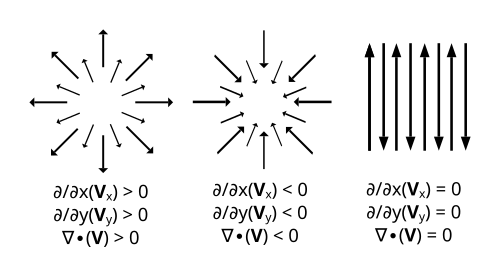
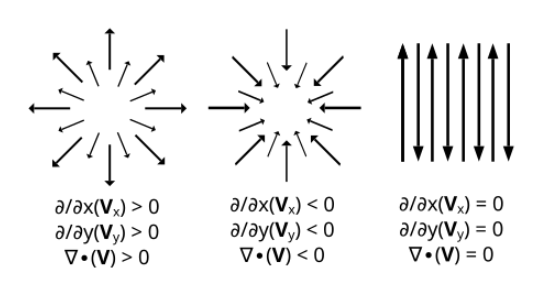
new cards with source & date

diff --git a/projects/projects.html b/projects/projects.html
@@ -27,119 +27,59 @@
 		</div>
 	</header>
 
-	<div class="cardgrid">
-		<a class="card" href="tracking/index.html">
-			<img src="thumbnails/tracking.png" />
-			<h3>&hearts;tracking</h3>
-			<p>3d virtual position-triangulation thru multiple camera's frame-wise differences</p>
-		</a>
-
-		<a class="card" href="particles/index.html">
-			<img src="thumbnails/particles.png" />
-			<h3>particles</h3>
-			<p>particle system with collisions using an optimized spatial hash grid</p>
-		</a>
-
-		<a class="card" href="geometrize/index.html">
-			<img src="thumbnails/geometrize.png" />
-			<h3>&hearts;geometrize</h3>
-			<p>image abstracted with shapes using a hill-climbing algorithm</p>
-		</a>
-
-		<a class="card" href="fracture/index.html">
-			<img src="thumbnails/fracture.png" />
-			<h3>fracture</h3>
-			<p>3d model mesh split by plane and retriangulated</p>
-		</a>
-
-		<a class="card" href="minesweeper/index.html">
-			<img src="thumbnails/minesweeper.png" />
-			<h3>&hearts;minesweeper</h3>
-			<p>the classic minesweeper game in 3d with intuitive orbit controls & cosmentic particle systems</p>
-		</a>
-
-		<a class="card" href="cloth/index.html">
-			<img src="thumbnails/cloth.png" />
-			<h3>&hearts;cloth</h3>
-			<p>3d flag-like mass-spring cloth simulation</p>
-		</a>
-
-		<a class="card" href="eulerian_fluid/index.html">
-			<img src="thumbnails/eulerian_fluid.png" />
-			<h3>eulerian fluid</h3>
-			<p>implementation of jos stam's <i>real-time fluid dynamics for games</i></p>
-		</a>
-
-		<a class="card" href="slicer/index.html">
-			<img src="thumbnails/slicer.png" />
-			<h3>&hearts;slicer</h3>
-			<p>voxelized mesh sliced into greedymeshed prisms</p>
-		</a>
-
-		<a class="card" href="targetting/index.html">
-			<img src="thumbnails/targetting.png" />
-			<h3>targetting</h3>
-			<p>3d interactive scene with quaternion rotation, plane translation, and relative scaling</p>
-		</a>
-
-		<a class="card" href="a_star_nav/index.html">
-			<img src="thumbnails/a_star_nav.png" />
-			<h3>&hearts;a star nav</h3>
-			<p>3d open world with a* navigation system</p>
-		</a>
-
-		<a class="card" href="asteroids/index.html">
-			<img src="thumbnails/asteroids.png" />
-			<h3>asteroids</h3>
-			<p>the classic asteroids game with a pseudo-shader to imitate text-based console graphics</p>
-		</a>
-
-		<a class="card" href="pixels/index.html">
-			<img src="thumbnails/pixels.png" />
-			<h3>&hearts;pixels</h3>
-			<p>orientable bitmaps with physics and collision detection</p>
-		</a>
-
-		<a class="card" href="raycasting/index.html">
-			<img src="thumbnails/raycasting.png" />
-			<h3>raycasting</h3>
-			<p>casting shadows in all directions using dda(digital differential analyzer) tilemap ray intersections</p>
-		</a>
-
-		<a class="card" href="smoke/index.html">
-			<img src="thumbnails/smoke.png" />
-			<h3>&hearts;smoke</h3>
-			<p>attempt to procedurally imitate smoke-like effects with a particle system</p>
-		</a>
-
-		<a class="card" href="steering_behaviors/index.html">
-			<img src="thumbnails/steering_behaviors.png" />
-			<h3>steering behaviors [wip]</h3>
-			<p>implementation of craig reynolds' boids with a mouse fleeing rule</p>
-		</a>
-
-		<a class="card" href="planet_game/index.html">
-			<img src="thumbnails/planet_game.png" />
-			<h3>planet game [wip]</h3>
-			<p>3d spherical-coordinate based walking control system for an upcoming game</p>
-		</a>
-
-		<a class="card" href="jelly_car_clone/index.html">
-			<img src="thumbnails/jelly_car_clone.png" />
-			<h3>jelly car clone [wip]</h3>
-			<p>implementation of walaber entertainment's softbody physics system for the game <i>jelly car</i></p>
-		</a>
-
-		<a class="card" href="rigid_bodies/index.html">
-			<img src="thumbnails/rigid_bodies.png" />
-			<h3>rigid bodies [wip]</h3>
-			<p>attempt to imitate rigid body physics using sat(seperating axis theorem)</p>
-		</a>
+	<div id="cardgrid">
 	</div>
 
 	<footer>
 		&copy; 2025 Owen Harrison
 	</footer>
+
+	<script>
+		const cards = [
+			{ name: "tracking", title: "&hearts; tracking", desc: "3d virtual position-triangulation thru multiple camera's frame-wise differences", date: "nov 8, 2025" },
+			{ name: "particles", title: "particles", desc: "particle system with collisions using an optimized spatial hash grid", date: "nov 10, 2025" },
+			{ name: "geometrize", title: "&hearts; geometrize", desc: "image abstracted with shapes using a hill-climbing algorithm", date: "oct 26, 2025" },
+			{ name: "fracture", title: "fracture", desc: "3d model mesh split by plane and retriangulated", date: "nov 9, 2025" },
+			{ name: "minesweeper", title: "&hearts; minesweeper", desc: "the classic minesweeper game in 3d with intuitive orbit controls & cosmentic particle systems", date: "oct 26, 2025" },
+			{ name: "cloth", title: "&hearts; cloth", desc: "3d flag-like mass-spring cloth simulation", date: "nov 8, 2025" },
+			{ name: "eulerian_fluid", title: "eulerian fluid", desc: "implementation of jos stam's <i>real-time fluid dynamics for games</i>", date: "mar 9, 2025" },
+			{ name: "slicer", title: "&hearts; slicer", desc: "voxelized mesh sliced into greedymeshed prisms", date: "nov 17, 2025" },
+			{ name: "targetting", title: "targetting", desc: "3d interactive scene with quaternion rotation, plane translation, and relative scaling", date: "nov 15, 2025" },
+			{ name: "a_star_nav", title: "&hearts; a star nav", desc: "3d open world with a* navigation system", date: "jul 2, 2025" },
+			{ name: "asteroids", title: "asteroids", desc: "the classic asteroids game with a pseudo-shader to imitate text-based console graphics", date: "sep 21, 2025" },
+			{ name: "pixels", title: "&hearts; pixels", desc: "orientable bitmaps with physics and collision detection", date: "may 4, 2025" },
+			{ name: "raycasting", title: "raycasting", desc: "casting shadows in all directions using dda(digital differential analyzer) tilemap ray intersections", date: "feb 26, 2025" },
+			{ name: "smoke", title: "&hearts; smoke", desc: "attempt to procedurally imitate smoke-like effects with a particle system", date: "apr 1, 2025" },
+			{ name: "steering_behaviors", title: "steering behaviors", desc: "implementation of craig reynolds' <i>boids</i> with a mouse fleeing rule", date: "sep 9, 2025" },
+			{ name: "planet_game", title: "planet game", desc: "3d spherical-coordinate based walking control system for an upcoming game", date: "oct 20, 2025" },
+			{ name: "jelly_car_clone", title: "jelly car clone", desc: "implementation of walaber entertainment's softbody physics system for the game <i>jelly car</i>", date: "apr 10, 2025" },
+			{ name: "rigid_bodies", title: "rigid bodies", desc: "attempt to imitate rigid body physics using sat(seperating axis theorem)", date: "aug 24, 2025" },
+		];
+
+		let cardgrid = document.getElementById("cardgrid");
+
+		//visual studio does NOT know how to format this.
+		cards.forEach(c => {
+			let src = "https://github.com/owenbharrison/simsAndGames/tree/main/"+c.name;
+			cardgrid.innerHTML+=`
+			<div class="card">
+			<div class="thumb">
+			<img src="thumbnails/${c.name}.png"/>
+			</div>
+			<div class="content">
+			<h2>${c.title}</h2>
+			<span>
+			<a href="${c.name}/index.html">&#9655; run</a>
+			|
+			<a target="_blank" href="${src}">see code</a>
+			</span>
+			<p>${c.desc}</p>
+			<span class="date">${c.date}</span>
+			</div>
+			</div>
+			`;
+		});
+	</script>
 
 	<script src="../click_me.js"></script>
 </body>

diff --git a/concepts/concepts.html b/concepts/concepts.html
@@ -27,77 +27,46 @@
 		</div>
 	</header>
 
-	<div class="cardgrid">
-		<a class="card" href="greedy_meshing.pdf">
-			<img src="thumbnails/greedy_meshing.png"/>
-			<h3>&hearts;greedy meshing</h3>
-			<p>mesh optimization algorithm for tilemap-like renderers</p>
-		</a>
-
-		<a class="card" href="divergence.pdf">
-			<img src="thumbnails/divergence.png"/>
-			<h3>divergence</h3>
-			<p>divergence of fluid for staggered grid implementation</p>
-		</a>
-
-		<a class="card" href="tree_generation.pdf">
-			<img src="thumbnails/tree.jpeg"/>
-			<h3>&hearts;tree generation</h3>
-			<p>procedural branch-like tree generation</p>
-		</a>
-
-		<a class="card" href="ball_balancer.pdf">
-			<img src="thumbnails/ball_balancer.jpg"/>
-			<h3>ball balancer</h3>
-			<p>responsive kinematics system to balance ball on plate</p>
-		</a>
-
-		<a class="card" href="multiplexing.pdf">
-			<img src="thumbnails/multiplexing.jpg"/>
-			<h3>&hearts;multiplexing</h3>
-			<p>saving on number of data signals based on clever organization</p>
-		</a>
-
-		<a class="card" href="raytracing.pdf">
-			<img src="thumbnails/raytracing.jpg"/>
-			<h3>raytracing</h3>
-			<p>viewport ray direction computations</p>
-		</a>
-
-		<a class="card" href="sequential_segments.pdf">
-			<img src="thumbnails/sequential_segments.png"/>
-			<h3>sequential segments</h3>
-			<p>fancy handwriting like segment-wise activation order</p>
-		</a>
-
-		<a class="card" href="shape_matching.pdf">
-			<img src="thumbnails/shape_matching.jpg"/>
-			<h3>&hearts;shape matching</h3>
-			<p>shape-keeping softbody physics algorithm</p>
-		</a>
-
-		<a class="card" href="tracking.pdf">
-			<img src="thumbnails/tracking.webp"/>
-			<h3>&hearts;tracking</h3>
-			<p>virtual position-triangulation thru multiple camera's frame-wise differences</p>
-		</a>
-
-		<a class="card" href="ui_layout.pdf">
-			<img src="thumbnails/ui_layout.avif"/>
-			<h3>ui layout</h3>
-			<p>bounding-box modeled ui layout system</p>
-		</a>
-
-		<a class="card" href="voxel_rendering.pdf">
-			<img src="thumbnails/voxel_rendering.png"/>
-			<h3>&hearts;voxel rendering</h3>
-			<p>voxel meshing algorithm utilizing greedy meshing along 6 planes</p>
-		</a>
+	<div id="cardgrid">
 	</div>
 
 	<footer>
 		&copy; 2025 Owen Harrison
 	</footer>
+
+	<script defer>
+		let cardgrid = document.getElementById("cardgrid");
+
+		const cards = [
+			{ name: "greedy_meshing", title: "&hearts;greedy meshing", desc: "mesh optimization algorithm for tilemap-like renderers", date: "dec 7, 2024" },
+			{ name: "divergence", title: "divergence", desc: "divergence of fluid for staggered grid implementation", date: "sep 22, 2025" },
+			{ name: "tree_generation", title: "&hearts;tree generation", desc: "procedural branch-like tree generation", date: "apr 9, 2024" },
+			{ name: "ball_balancer", title: "ball_balancer", desc: "responsive kinematics system to balance ball on plate", date: "sep 13, 2024" },
+			{ name: "multiplexing", title: "&hearts;multiplexing", desc: "saving on number of data signals based on clever organization", date: "oct 6, 2024" },
+			{ name: "raytracing", title: "raytracing", desc: "viewport ray direction computations", date: "dec 9, 2022" },
+			{ name: "sequential_segments", title: "sequential segments", desc: "fancy handwriting like segment-wise activation order", date: "oct 21, 2024" },
+			{ name: "shape_matching", title: "&hearts;shape matching", desc: "shape-keeping softbody physics algorithm", date: "apr 7, 2025" },
+			{ name: "tracking", title: "&hearts;tracking", desc: "virtual position-triangulation thru multiple camera's frame-wise differences", date: "oct 4, 2025" },
+			{ name: "ui_layout", title: "ui layout", desc: "bounding-box modeled ui layout system", date: "sep 21, 2024" },
+			{ name: "voxel_rendering", title: "&hearts;voxel rendering", desc: "voxel meshing algorithm utilizing greedy meshing along 6 planes", date: "dec 7, 2024" }
+		];
+
+		cards.forEach(c => {
+			cardgrid.innerHTML += `
+			<div class="card">
+			<div class="thumb">
+			<img src="thumbnails/${c.name}.png"/>
+			</div>
+			<div class="content">
+			<h2>${c.title}</h2>
+			<span><a href="${c.name}.pdf">see pdf</a></span>
+			<p>${c.desc}</p>
+			<span class="date">${c.date}</span>
+			</div>
+			</div>
+			`;
+		});
+	</script>
 
 	<script src="../click_me.js"></script>
 </body>

diff --git a/cardgrid.css b/cardgrid.css
@@ -1,26 +1,70 @@
-.cardgrid {
+#cardgrid {
 	display: grid;
-	grid-template-columns: repeat(auto-fit, minmax(250px, 1fr));
-	gap: 20px;
-	padding: 40px;
+	grid-template-columns: repeat(auto-fill, minmax(260px, 1fr));
+	gap: 1.25rem;
 }
 
 .card {
-	background-color: #eee;
-	padding: 20px;
-	box-shadow: 0 4px 10px rgba(0,0,0,0.1);
+	height: 360px;
+	display: flex;
+	flex-direction: column;
+	overflow: hidden;
+	box-shadow: 0 8px 20px rgba(0, 0, 0, 0.3);
 	transition: transform 0.2s;
-	text-decoration: none;
-	color: inherit;
 }
 
-	.card:hover {
-		transform: translateY(-5px);
-	}
+.card:hover {
+	transform: translateY(-5px);
+}
 
-	.card img {
-		width: 100%;
-		height: 50%;
-		object-fit: cover;
-		margin-bottom: 10px;
-	}
+.thumb {
+	padding: 0.75rem;
+	height: 40%;
+	flex-shrink: 0;
+}
+
+.thumb img {
+	width: 100%;
+	height: 100%;
+	object-fit: cover;
+}
+
+.thumb, .content {
+	background-color: #dcdcdc;
+}
+
+.content {
+	flex: 1;
+	padding: 0.9rem;
+	display: flex;
+	flex-direction: column;
+	gap: 0.5rem;
+	overflow: hidden;
+}
+
+.card h2 {
+	font-size: 1.2rem;
+	line-height: 1.2;
+	margin: 0;
+	display: -webkit-box;
+	-webkit-line-clamp: 2;
+	-webkit-box-orient: vertical;
+	overflow: hidden;
+}
+
+.card p {
+	font-size: 0.875rem;
+	line-height: 1.4;
+	margin: 0;
+	opacity: 0.85;
+	display: -webkit-box;
+	-webkit-line-clamp: 3;
+	-webkit-box-orient: vertical;
+	overflow: hidden;
+}
+
+.date {
+	margin-top: auto;
+	font-size: 0.75rem;
+	opacity: 0.6;
+}
